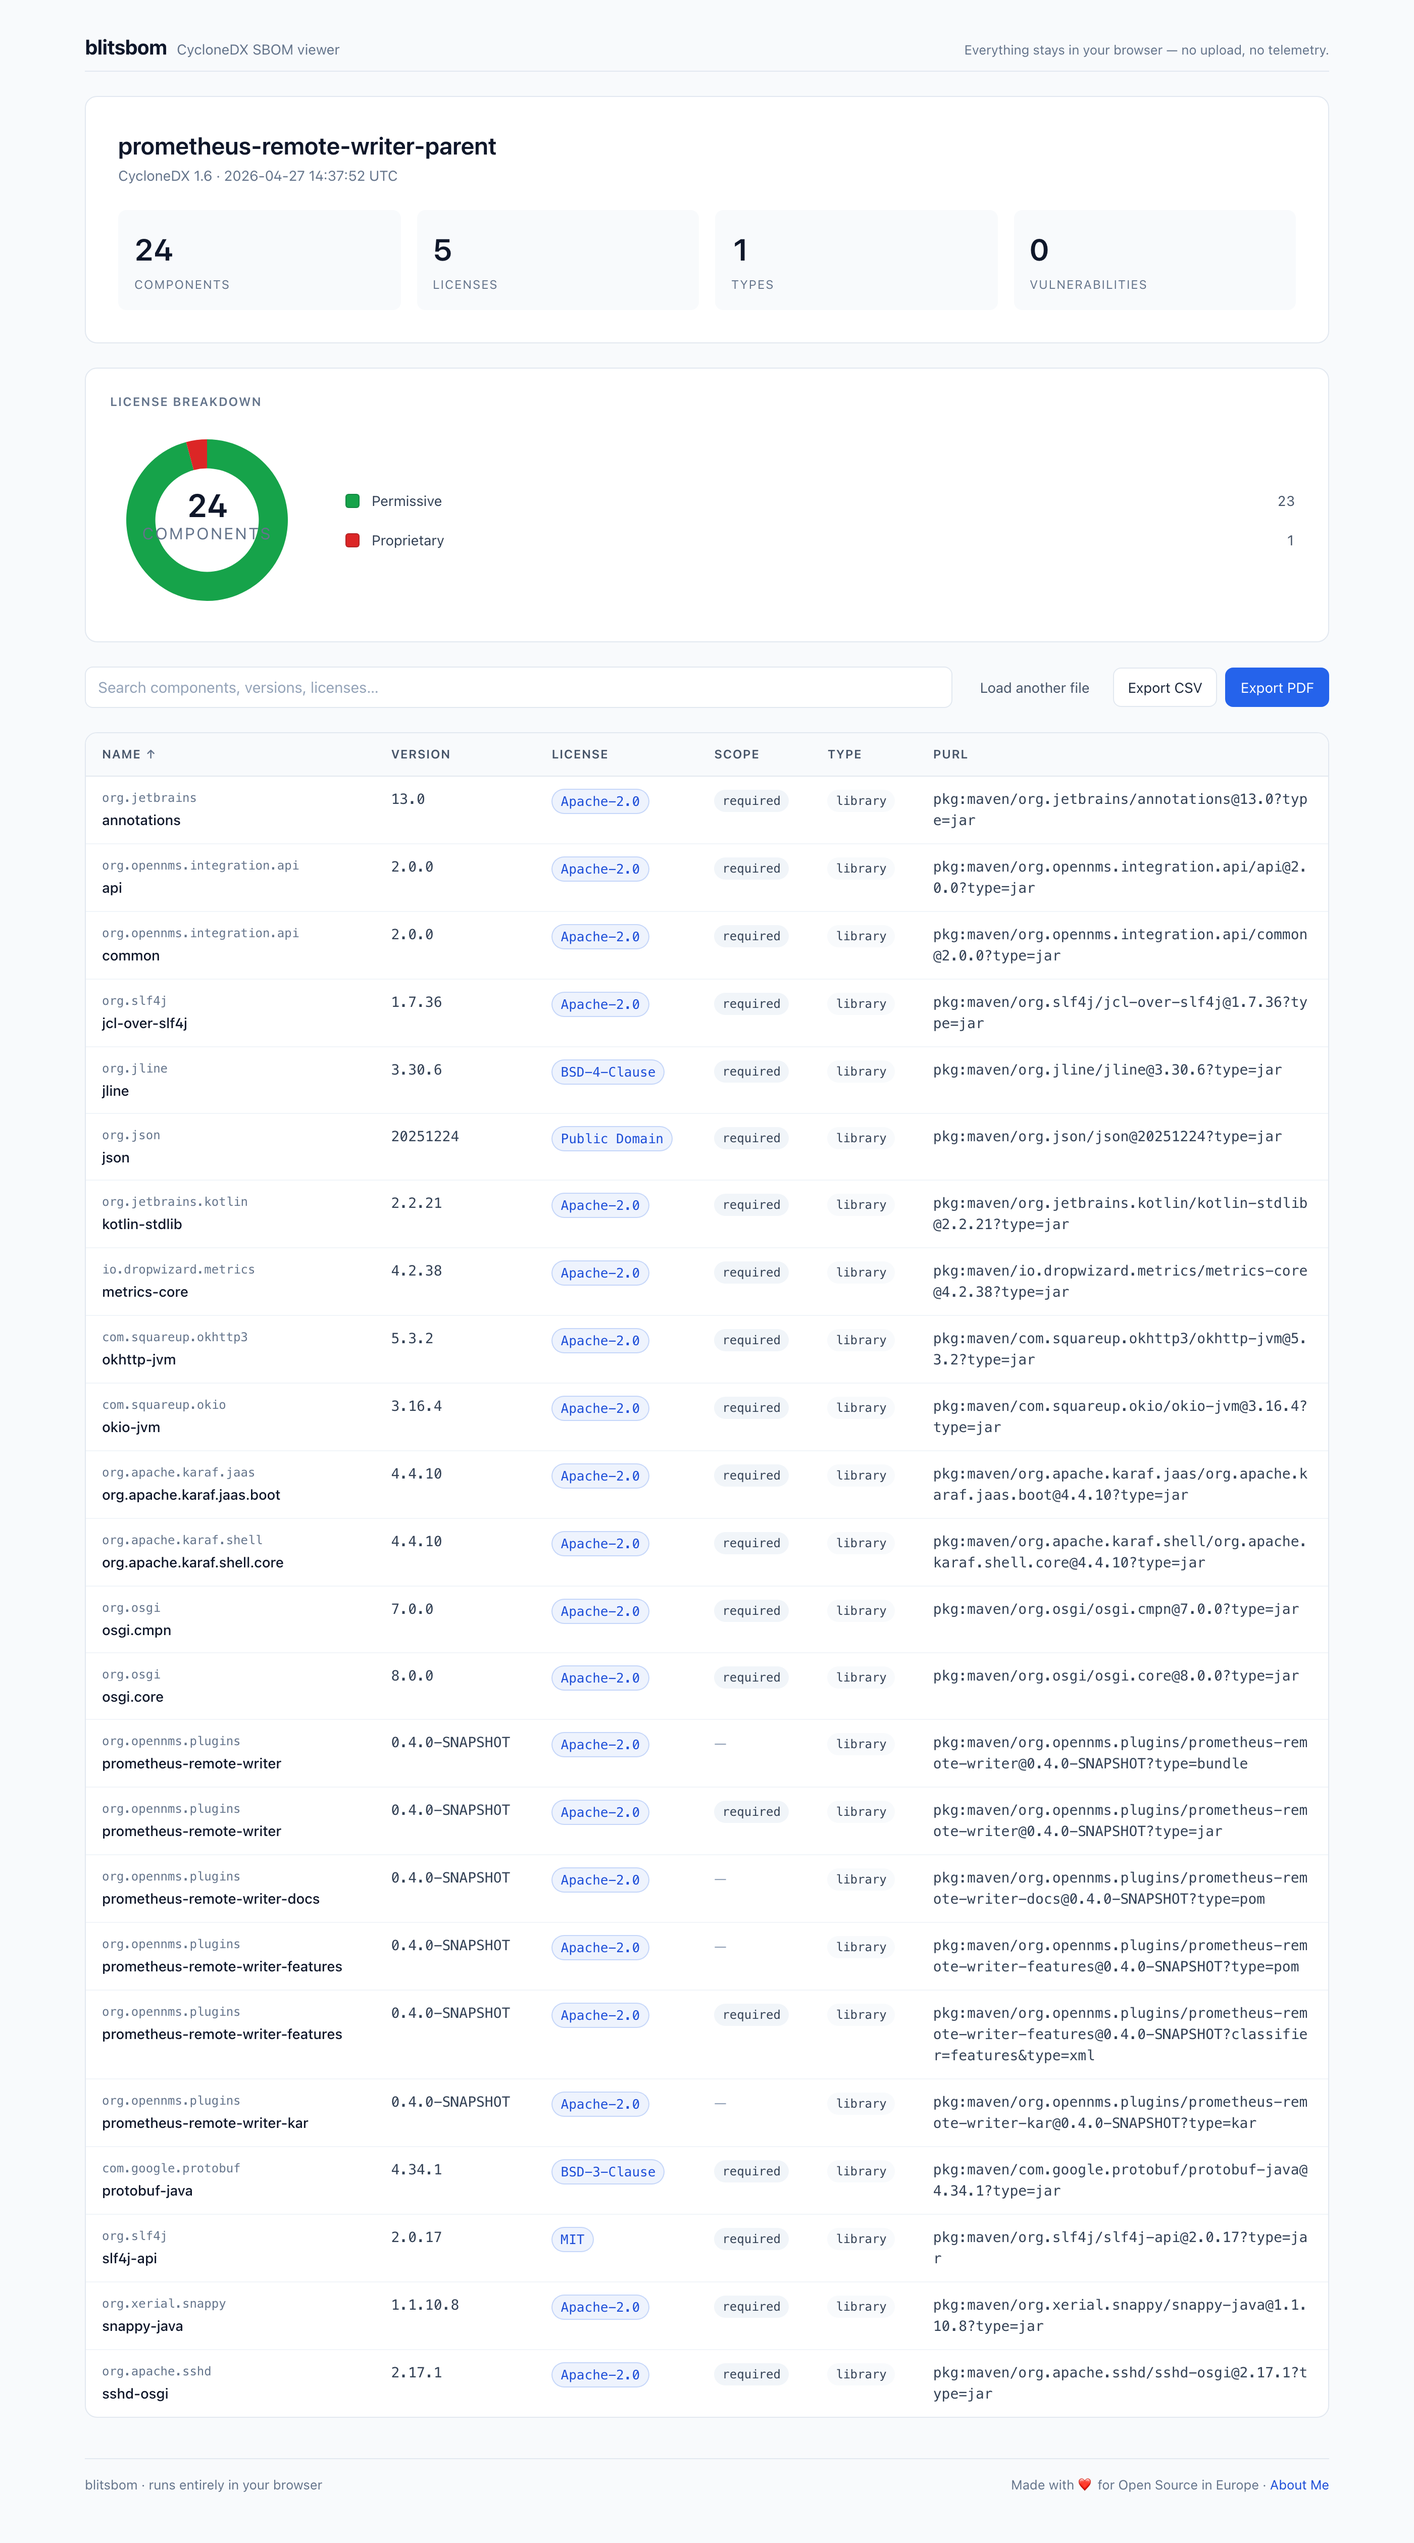
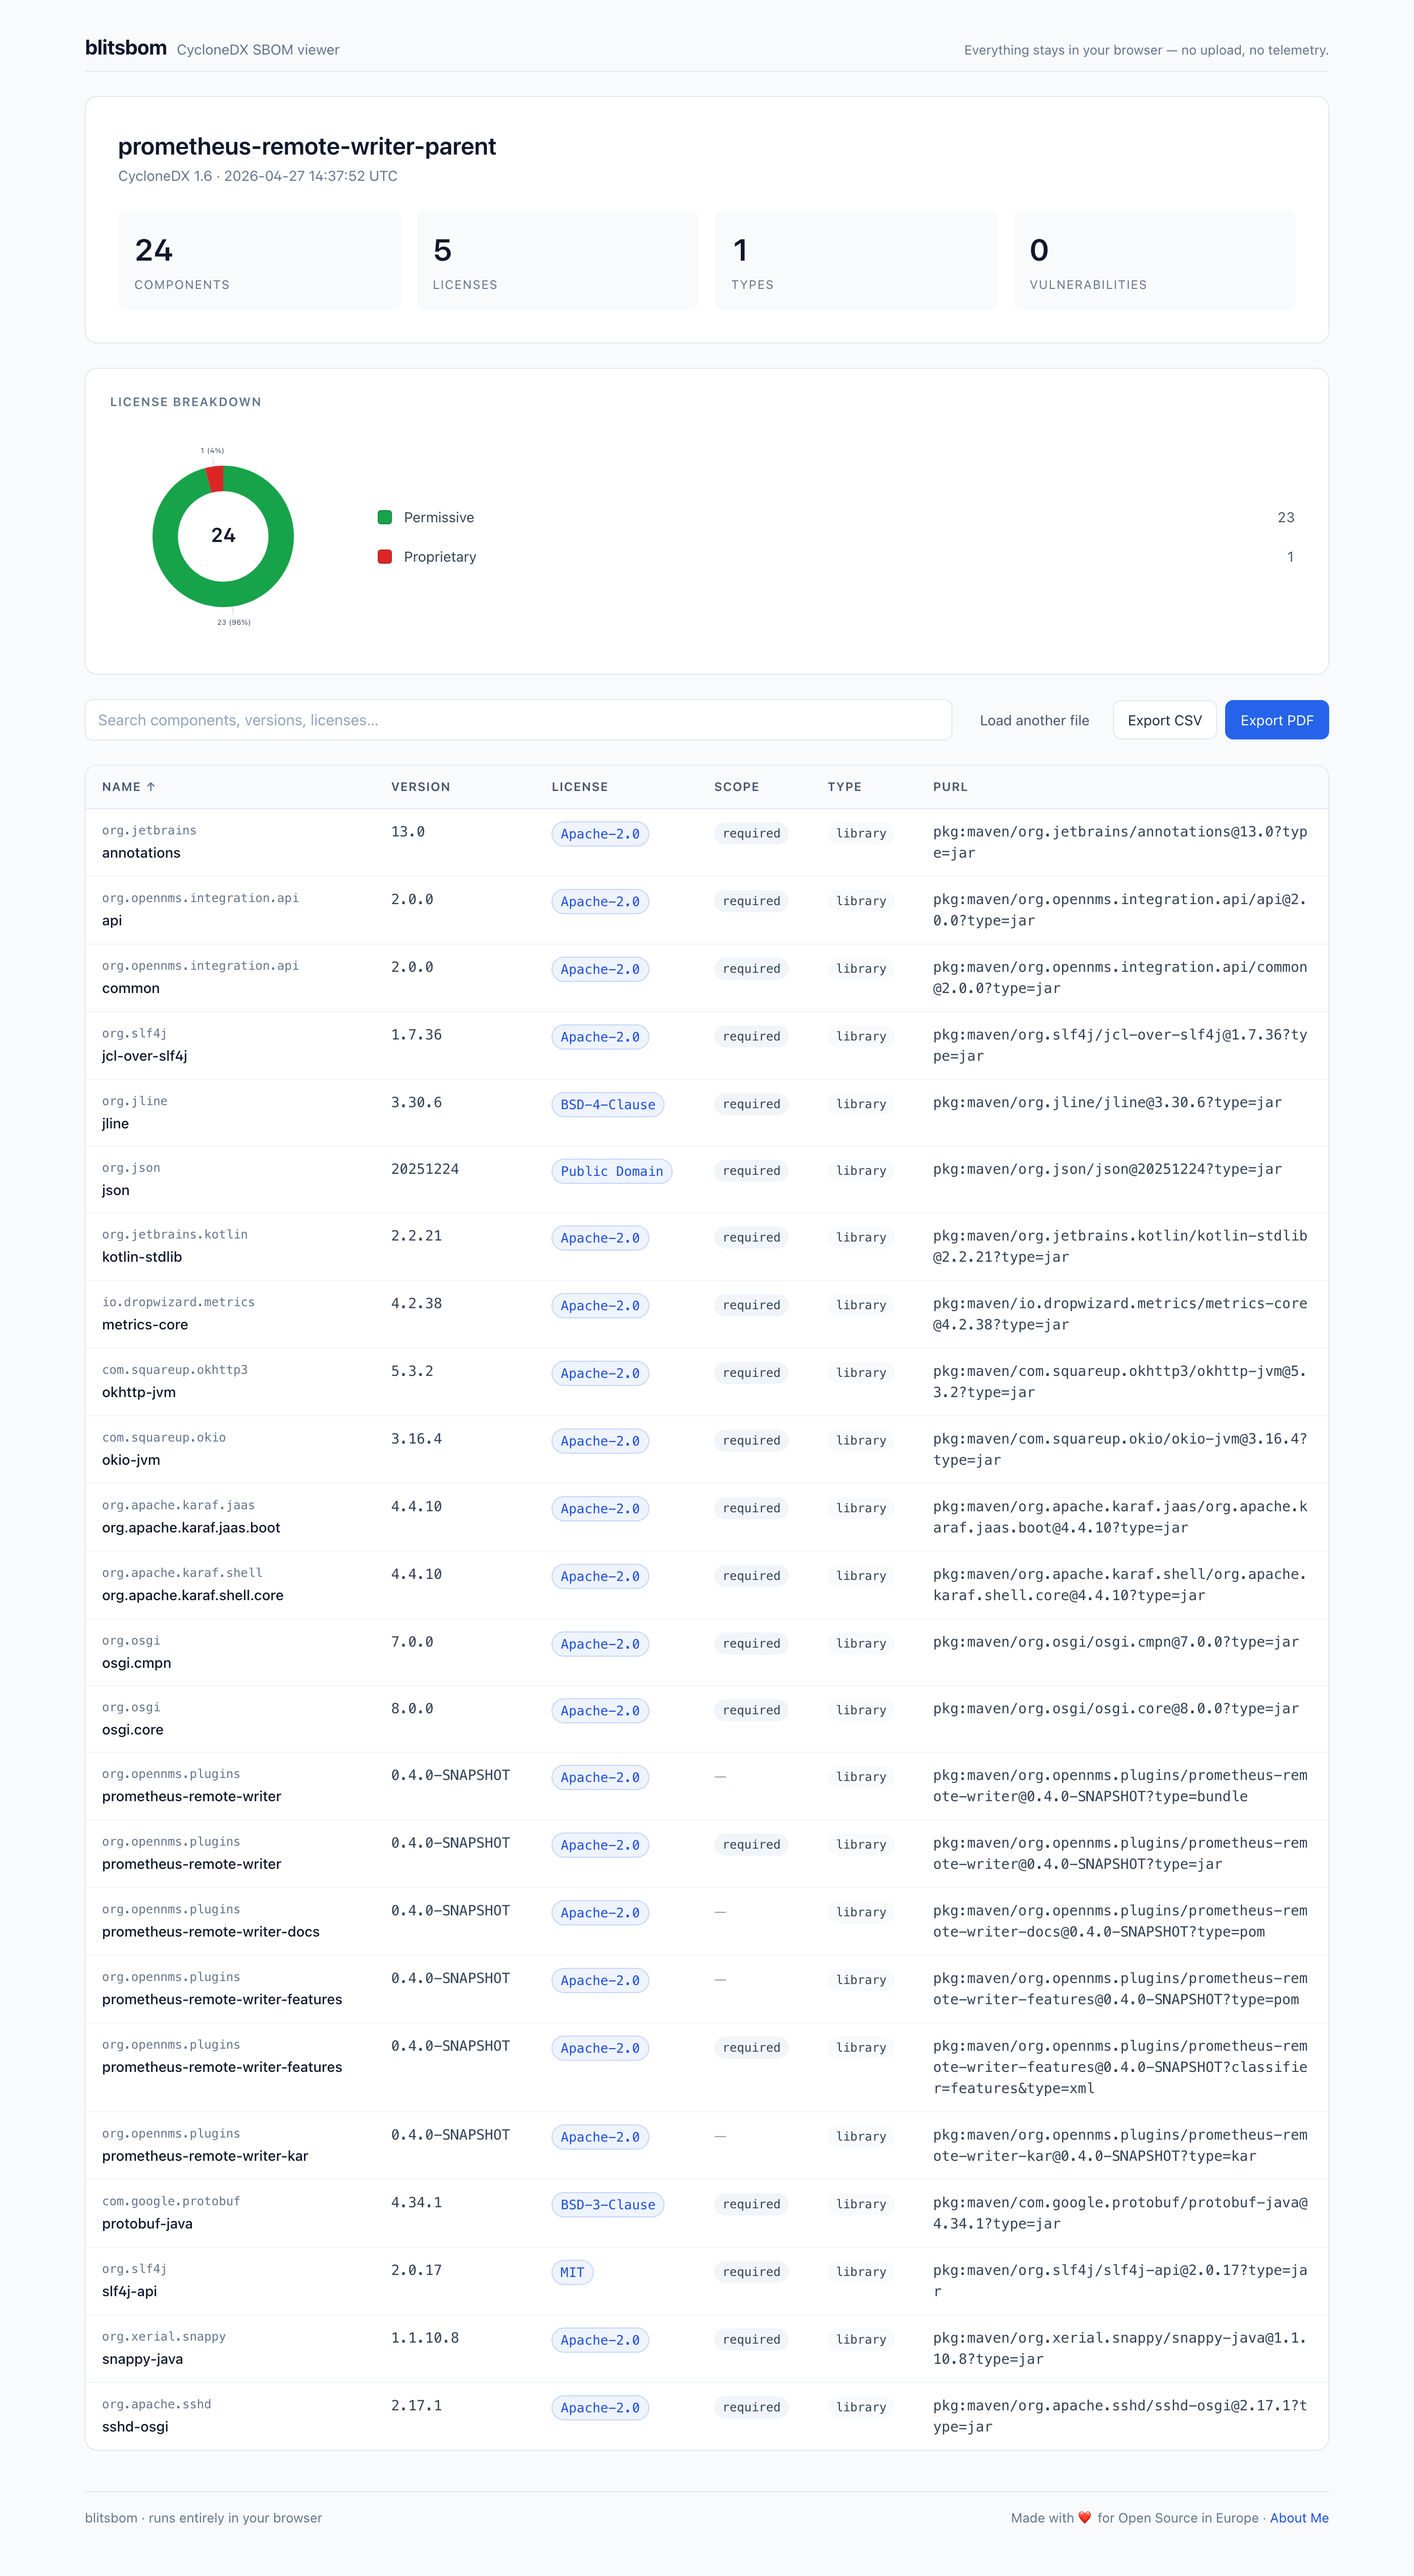
feat(donut): show count + percent ticks, drop "COMPONENTS" center label
Each non-empty segment now gets a short radial tick line and a label
formatted as "count (percent%)". The "components" sub-label is removed
from the donut center; just the total count remains. SVG viewBox grew
from 120x120 to 160x160 (with the donut centered at 80,80) to leave
room for the perimeter labels.

A single full-ring segment skips ticks since the label would just
duplicate "100%".

Assisted-by: ClaudeCode:claude-opus-4-7

diff --git a/src/ui/LicenseDonut.svelte b/src/ui/LicenseDonut.svelte
@@ -10,7 +10,63 @@
 
   let { breakdown }: Props = $props();
 
-  const geom: DonutGeometry = { cx: 60, cy: 60, r: 50, rInner: 32 };
+  const geom: DonutGeometry = { cx: 80, cy: 80, r: 50, rInner: 32 };
+
+  // Tick labels: a short radial line + "count (percent%)" placed just
+  // outside each non-empty segment.
+  interface Tick {
+    line: { x1: number; y1: number; x2: number; y2: number };
+    label: { x: number; y: number };
+    anchor: 'start' | 'middle' | 'end';
+    dy: string;
+    text: string;
+  }
+
+  const ticks = $derived.by<Tick[]>(() => {
+    const total = ordered.reduce((s, o) => s + o.count, 0);
+    if (total <= 0) return [];
+    const nonEmpty = ordered.filter((o) => o.count > 0);
+    // For a single full-ring segment, the percentage is 100% and a label
+    // would crowd the donut — skip ticks entirely.
+    if (nonEmpty.length <= 1) return [];
+
+    const out: Tick[] = [];
+    let cumulative = 0;
+    for (const o of ordered) {
+      if (o.count <= 0) continue;
+      const startA = (cumulative / total) * Math.PI * 2 - Math.PI / 2;
+      cumulative += o.count;
+      const endA = (cumulative / total) * Math.PI * 2 - Math.PI / 2;
+      const midA = (startA + endA) / 2;
+
+      const cosA = Math.cos(midA);
+      const sinA = Math.sin(midA);
+
+      const tickIn = { x: geom.cx + geom.r * cosA, y: geom.cy + geom.r * sinA };
+      const tickOut = {
+        x: geom.cx + (geom.r + 6) * cosA,
+        y: geom.cy + (geom.r + 6) * sinA,
+      };
+      const labelPos = {
+        x: geom.cx + (geom.r + 9) * cosA,
+        y: geom.cy + (geom.r + 9) * sinA,
+      };
+
+      const anchor: Tick['anchor'] =
+        cosA > 0.15 ? 'start' : cosA < -0.15 ? 'end' : 'middle';
+      const dy = sinA > 0.3 ? '0.8em' : sinA < -0.3 ? '-0.1em' : '0.35em';
+
+      const pct = Math.max(1, Math.round((o.count / total) * 100));
+      out.push({
+        line: { x1: tickIn.x, y1: tickIn.y, x2: tickOut.x, y2: tickOut.y },
+        label: labelPos,
+        anchor,
+        dy,
+        text: `${o.count} (${pct}%)`,
+      });
+    }
+    return out;
+  });
 
   // Index entries in metadata order so the donut + legend ordering is stable
   // across re-renders (segments don't shuffle as filters change).
@@ -51,7 +107,7 @@
     <div class="donut__layout">
       <svg
         class="donut__svg"
-        viewBox="0 0 120 120"
+        viewBox="0 0 160 160"
         role="img"
         aria-label="License category breakdown"
       >
@@ -77,18 +133,28 @@
             />
           {/if}
         {/each}
+        {#each ticks as tick}
+          <line
+            x1={tick.line.x1}
+            y1={tick.line.y1}
+            x2={tick.line.x2}
+            y2={tick.line.y2}
+            class="donut__tick"
+          />
+          <text
+            x={tick.label.x}
+            y={tick.label.y}
+            dy={tick.dy}
+            text-anchor={tick.anchor}
+            class="donut__tick-label"
+          >{tick.text}</text>
+        {/each}
         <text
-          x="60"
-          y="58"
+          x="80"
+          y="84"
           text-anchor="middle"
           class="donut__center-count"
         >{total}</text>
-        <text
-          x="60"
-          y="72"
-          text-anchor="middle"
-          class="donut__center-label"
-        >components</text>
       </svg>
 
       <ul class="legend">
@@ -141,13 +207,13 @@
     align-items: center;
   }
   .donut__svg {
-    width: 12rem;
-    height: 12rem;
+    width: 14rem;
+    height: 14rem;
   }
   .donut__segment {
     cursor: pointer;
     transition: transform 80ms ease, opacity 80ms ease;
-    transform-origin: 60px 60px;
+    transform-origin: 80px 80px;
   }
   .donut__segment:hover {
     opacity: 0.85;
@@ -156,17 +222,21 @@
     /* Slight outward bump signals the active segment. */
     transform: scale(1.03);
   }
+  .donut__tick {
+    stroke: var(--color-ink-300);
+    stroke-width: 0.5;
+  }
+  .donut__tick-label {
+    font-size: 5px;
+    fill: var(--color-ink-700);
+    font-variant-numeric: tabular-nums;
+    pointer-events: none;
+  }
   .donut__center-count {
-    font-size: 1.25rem;
+    font-size: 14px;
     font-weight: 600;
     fill: var(--color-ink-900);
     font-variant-numeric: tabular-nums;
-  }
-  .donut__center-label {
-    font-size: 0.625rem;
-    fill: var(--color-ink-500);
-    text-transform: uppercase;
-    letter-spacing: 0.08em;
   }
 
   .legend {
